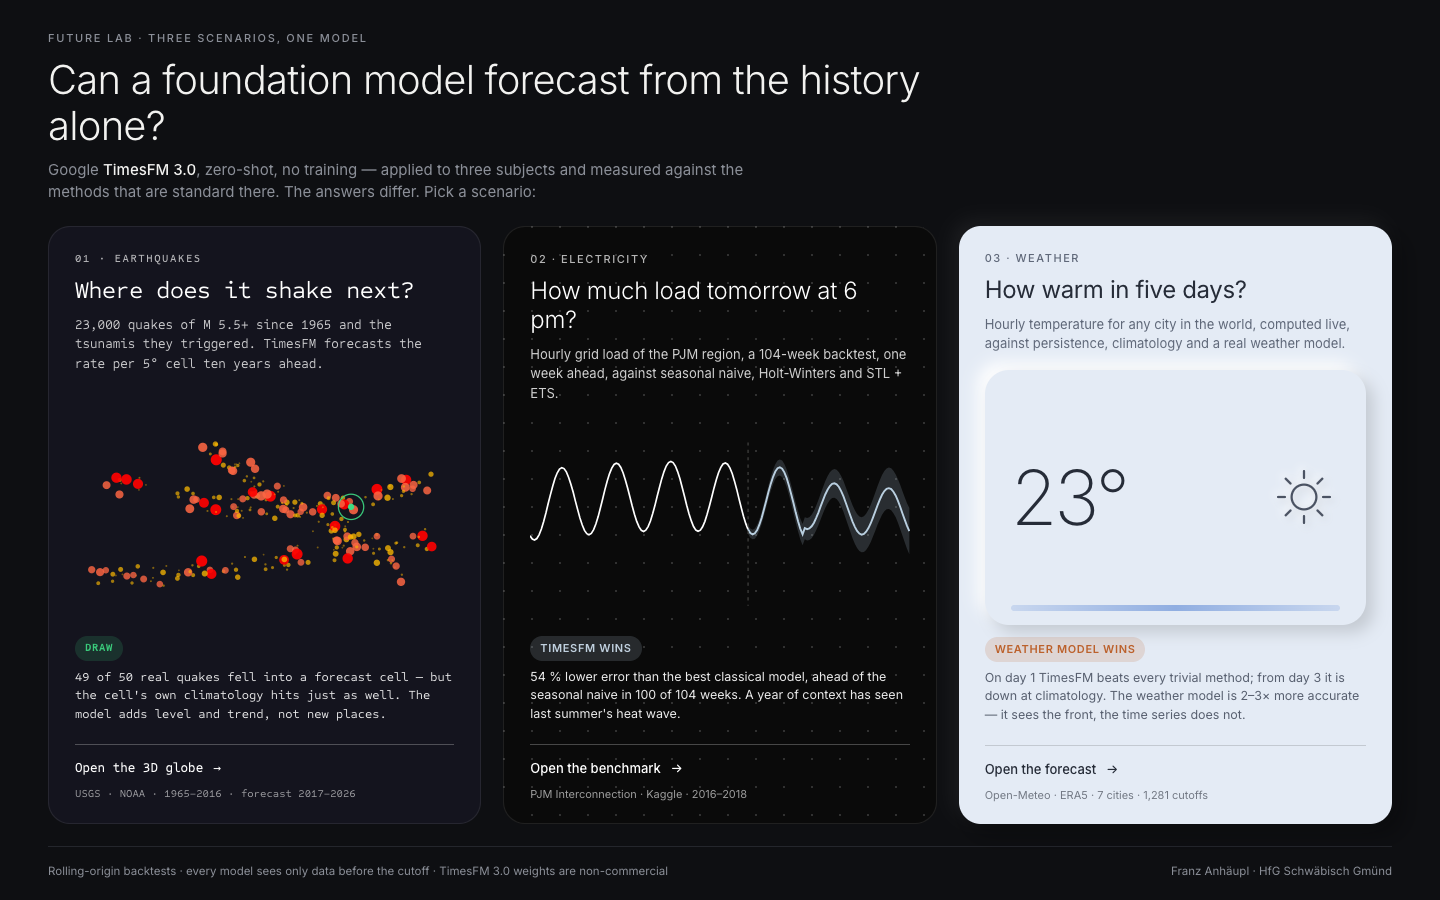
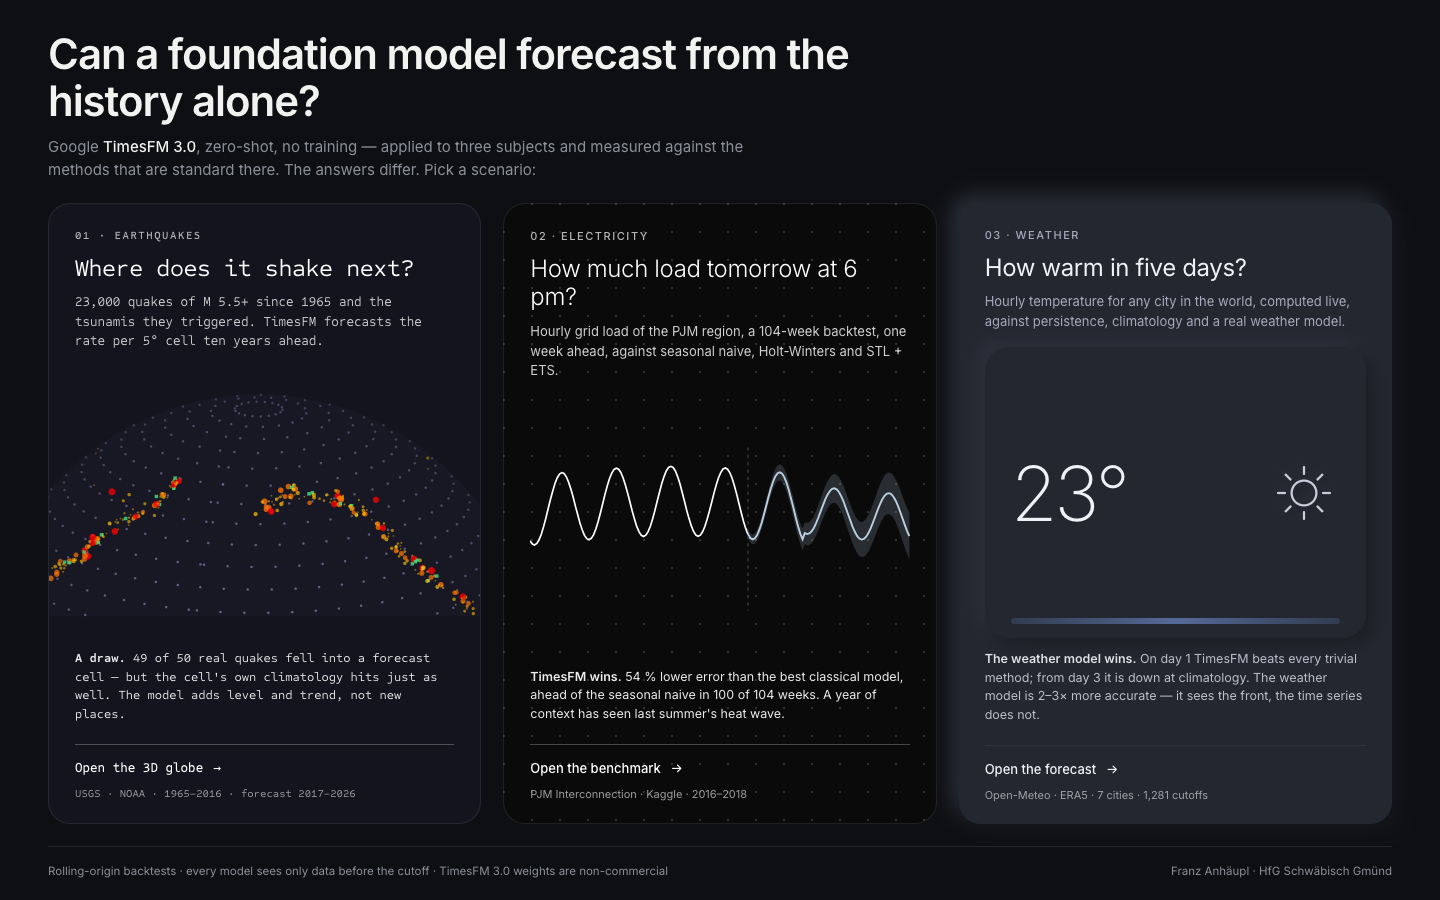
feat: adjust latitude range and step size in QuakeArt for improved visualization

diff --git a/src/hub/Hub.tsx b/src/hub/Hub.tsx
@@ -97,8 +97,8 @@ function QuakeArt() {
   };
   const r = rng(11);
   const dots: { x: number; y: number; z: number }[] = [];
-  for (let lat = -84; lat <= 84; lat += 6) {
-    const step = 6 / Math.max(0.25, Math.cos(lat * rad));
+  for (let lat = -85; lat <= 85; lat += 5) {
+    const step = 5 / Math.max(0.25, Math.cos(lat * rad));
     for (let lon = -180; lon < 180; lon += step) {
       const p = project(lat, lon);
       if (p.z > 0.05) dots.push(p);
@@ -127,7 +127,7 @@ function QuakeArt() {
       <g clipPath="url(#globeClip)">
         <circle cx={CX} cy={CY} r={R} fill="rgb(24, 24, 36)" />
         {dots.map((p, i) => (
-          <circle key={`d${i}`} cx={p.x} cy={p.y} r={0.9} fill="#6e6d95" opacity={0.25 + p.z * 0.5} />
+          <circle key={`d${i}`} cx={p.x} cy={p.y} r={1} fill="#6e6d95" opacity={0.35 + p.z * 0.55} />
         ))}
         {quakes.map((p, i) =>
           p.fc ? (
